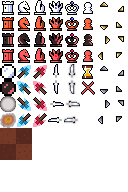
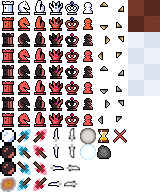
Added maptypes

diff --git a/src/main/TextureManager.java b/src/main/TextureManager.java
@@ -10,7 +10,9 @@ public class TextureManager {
 
     GamePanel gamePanel;
 
-    public BufferedImage tileImage;
+    public BufferedImage earthTileImage;
+    public BufferedImage snowTileImage;
+    public BufferedImage grassTileImage;
     public BufferedImage mapImage;
     public BufferedImage bottomBarImage;
     public BufferedImage unavailablePieceImage;
@@ -63,7 +65,8 @@ public class TextureManager {
 
 
     public BufferedImage cannonBallImage;
-    public BufferedImage cannonBallEnemyImage;
+    public BufferedImage cannonBallEarthEnemyImage;
+    public BufferedImage cannonBallSnowEnemyImage;
     public BufferedImage explosionImage;
     public BufferedImage queenParticleImageUp;
     public BufferedImage queenParticleImageDown;
@@ -75,7 +78,12 @@ public class TextureManager {
     public BufferedImage bishopParticleImageDownRight;
     public BufferedImage enemyBishopParticleImageDownLeft;
     public BufferedImage enemyBishopParticleImageUpLeft;
-    public BufferedImage knightParticleImage;
+    public BufferedImage knightEarthParticleImage;
+    public BufferedImage knightSnowParticleImage;
+
+    public BufferedImage rockImage;
+    public BufferedImage bushImage;
+    public BufferedImage iceImage;
 
     public BufferedImage stopwatchImage;
 
@@ -86,7 +94,7 @@ public class TextureManager {
     }
 
     final int TILE_SIZE = 16;
-    void loadImages() {
+    void loadImages(Map map) {
         try
         {
             // No atlas
@@ -152,31 +160,37 @@ public class TextureManager {
             greyArrowUpLeftImage = getTextureUpscaled(7, 7, UPSCALED_SIZE);
 
 
-            cannonBallImage = getTextureUpscaled(0, 4, 64);
-            cannonBallEnemyImage = getTextureUpscaled(0,5, 64);
+            cannonBallImage = getTextureUpscaled(0, 8, 64);
+            cannonBallEarthEnemyImage = getTextureUpscaled(0,9, 64);
+            cannonBallSnowEnemyImage = getTextureUpscaled(0,10, 64);
 
-            knightParticleImage = getTextureUpscaled(0,6, 128);
+            knightEarthParticleImage = getTextureUpscaled(5,8, 128);
+            knightSnowParticleImage = getTextureUpscaled(5,9, 128);
 
-            explosionImage = getTextureUpscaled(0,7, 64);
+            explosionImage = getTextureUpscaled(0,11, 64);
 
-            queenParticleImageUp = getTextureUpscaled(3,4, UPSCALED_SIZE);
-            queenParticleImageDown = getTextureUpscaled(3,5, UPSCALED_SIZE);
-            queenParticleImageRight = getTextureUpscaled(3, 6, UPSCALED_SIZE);
-            queenParticleImageLeft = getTextureUpscaled(3, 7, UPSCALED_SIZE);
+            queenParticleImageUp = getTextureUpscaled(3,8, UPSCALED_SIZE);
+            queenParticleImageDown = getTextureUpscaled(3,9, UPSCALED_SIZE);
+            queenParticleImageRight = getTextureUpscaled(3, 10, UPSCALED_SIZE);
+            queenParticleImageLeft = getTextureUpscaled(3, 11, UPSCALED_SIZE);
 
-            bishopParticleImageUpRight = getTextureUpscaled(1,4, 96);
-            bishopParticleImageUpLeft = getTextureUpscaled(1,5, 96);
-            bishopParticleImageDownRight = getTextureUpscaled(1,6, 96);
-            bishopParticleImageDownLeft = getTextureUpscaled(1,7, 96);
+            bishopParticleImageUpRight = getTextureUpscaled(1,8, 96);
+            bishopParticleImageUpLeft = getTextureUpscaled(1,9, 96);
+            bishopParticleImageDownRight = getTextureUpscaled(1,10, 96);
+            bishopParticleImageDownLeft = getTextureUpscaled(1,11, 96);
 
-            enemyBishopParticleImageUpLeft = getTextureUpscaled(2,5, 96);
-            enemyBishopParticleImageDownLeft = getTextureUpscaled(2,7, 96);
+            enemyBishopParticleImageUpLeft = getTextureUpscaled(2,9, 96);
+            enemyBishopParticleImageDownLeft = getTextureUpscaled(2,11, 96);
 
-            stopwatchImage = getTextureUpscaled(5, 4,48);
+            stopwatchImage = getTextureUpscaled(6, 8,48);
 
-            unavailablePieceImage = getTexture(5,5);
-            tileImage = imageAtlas.getSubimage(0 * TILE_SIZE, 8 * TILE_SIZE, TILE_SIZE * 2, TILE_SIZE * 2);
-            mapImage = generateBackgroundImage();
+            rockImage = getTextureUpscaled(6,9,TILE_SIZE);
+            iceImage = getTextureUpscaled(6,10,TILE_SIZE);
+
+            unavailablePieceImage = getTexture(7,8);
+            earthTileImage = imageAtlas.getSubimage(8 * TILE_SIZE, 0 * TILE_SIZE, TILE_SIZE * 2, TILE_SIZE * 2);
+            snowTileImage = imageAtlas.getSubimage(8 * TILE_SIZE, 2 * TILE_SIZE, TILE_SIZE * 2, TILE_SIZE * 2);
+            mapImage = generateBackgroundImage(map);
 
         } catch (IOException e) {
             e.printStackTrace();
@@ -205,7 +219,16 @@ public class TextureManager {
     }
 
 
-    private BufferedImage generateBackgroundImage() {
+    private BufferedImage generateBackgroundImage(Map mapType) {
+        BufferedImage tileImage;
+
+        switch (mapType){
+            case Map.SNOW -> tileImage = snowTileImage;
+            case Map.WOODS -> tileImage = grassTileImage;
+            default -> tileImage = earthTileImage;
+        }
+
+
         if (tileImage == null) {
             return null;
         }

diff --git a/src/main/EntityManager.java b/src/main/EntityManager.java
@@ -48,18 +48,33 @@ public class EntityManager {
     }
 
     public void spawnEnemyCannonBall(int x, int y, int damage){
-       if (textureManager.enemyRookImage != null) {
+        BufferedImage skin;
+        if (gamePanel.map == Map.SNOW) {
+           skin = textureManager.cannonBallSnowEnemyImage;
+        } else {
+            skin = textureManager.cannonBallEarthEnemyImage;
+        }
+
+
+       if (skin != null) {
            int size = CANNON_BALL_SIZE;
            int bx = x + (gamePanel.pieceWidth - size) / 2;
-           gamePanel.enemyBalls.add(new EnemyCannonBall(gamePanel, textureManager, bx, y, size, DEFAULT_ENEMY_CANNONBALL_SPEED, damage));
+           gamePanel.enemyBalls.add(new EnemyCannonBall(gamePanel, textureManager, bx, y, size, DEFAULT_ENEMY_CANNONBALL_SPEED, damage, skin));
            soundManager.playClip(soundManager.shootClip);
        }
     }
     public void spawnBossCannonBall(int x, int y){
-        if (textureManager.enemyRookImage != null) {
+        BufferedImage skin;
+        if (gamePanel.map == Map.SNOW){
+            skin = textureManager.cannonBallSnowEnemyImage;
+        } else {
+            skin = textureManager.cannonBallEarthEnemyImage;
+        }
+
+        if (skin != null) {
             int size = CANNON_BALL_SIZE * 2;
             int bx = x + (gamePanel.pieceWidth - size) / 2;
-            gamePanel.enemyBalls.add(new EnemyCannonBall(gamePanel, textureManager, bx, y, size, DEFAULT_CANNONBALL_SPEED, DEFAULT_CANNON_BALL_DMG * 2));
+            gamePanel.enemyBalls.add(new EnemyCannonBall(gamePanel, textureManager, bx, y, size, DEFAULT_CANNONBALL_SPEED, DEFAULT_CANNON_BALL_DMG * 2, skin));
             soundManager.playClip(soundManager.shootClip);
         }
     }
@@ -105,13 +120,21 @@ public class EntityManager {
     }
 
     public void spawnKnightParticles() {
-       if (textureManager.knightImage != null) {
+        BufferedImage skin;
+        if (gamePanel.map == Map.SNOW){
+           skin = textureManager.knightSnowParticleImage;
+        } else {
+            skin = textureManager.knightEarthParticleImage;
+        }
+
+
+       if (skin != null) {
            int size = 128; // size of the cannonball
            // spawn at top‐center of the rook
            int bx = player.x + (gamePanel.pieceWidth  - size) / 2;
            int by = player.y + (gamePanel.pieceHeight - size) / 2;
 
-           gamePanel.projectiles.add(new KnightSmash(gamePanel, textureManager, bx, by, size, DEFAULT_QUEEN_PARTICLE_SPEED, DEFAULT_TIME_TO_DECAY_KNIGHT, DEFAULT_SLAM_DMG, player.facingDirection));
+           gamePanel.projectiles.add(new KnightSmash(gamePanel, textureManager, bx, by, size, DEFAULT_QUEEN_PARTICLE_SPEED, DEFAULT_TIME_TO_DECAY_KNIGHT, DEFAULT_SLAM_DMG, player.facingDirection, skin));
            soundManager.playClip(soundManager.smashClip);
        }
     }

diff --git a/src/menu/MenuPanel.java b/src/menu/MenuPanel.java
@@ -171,7 +171,6 @@ public class MenuPanel extends JPanel {
                 System.out.println(SettingsManager.easyText);
                 startingGame = true;
                 repaint();
-                soundManager.stopMusic();
                 SwingUtilities.invokeLater(() -> {
                     soundManager.stopMusic();
                     Main.startMainGame(this, null, "easy");
@@ -179,7 +178,6 @@ public class MenuPanel extends JPanel {
             } else if (buttonIndexY % 4 == 1) {
                 System.out.println(SettingsManager.mediumText);
                 startingGame = true;
-                soundManager.stopMusic();
                 repaint();
                 SwingUtilities.invokeLater(() -> {
                     soundManager.stopMusic();
@@ -189,7 +187,6 @@ public class MenuPanel extends JPanel {
                 System.out.println(SettingsManager.hardText);
                 startingGame = true;
                 repaint();
-                soundManager.stopMusic();
                 SwingUtilities.invokeLater(() -> {
                     soundManager.stopMusic();
                     Main.startMainGame(this, null, "hard");

diff --git a/src/main/GamePanel.java b/src/main/GamePanel.java
@@ -2,7 +2,6 @@ package main;
 
 import java.awt.*;
 import java.awt.image.BufferedImage;
-import java.io.*;
 import java.util.ArrayList;
 import java.util.List;
 import javax.swing.*;
@@ -28,6 +27,7 @@ public class GamePanel extends JPanel implements Runnable{
   private boolean turretsRepaired = false;
   private boolean bishopsRevived = false;
   public int score = 0;
+  public Map map = Map.EARTH;
 
   boolean gameStart = true;
   public boolean swapSoon = false;
@@ -109,7 +109,7 @@ public class GamePanel extends JPanel implements Runnable{
     this.difficulty = difficulty;
     System.out.println("DIFFICULTY: " + difficulty);
     enemyManager = new EnemyManager(this, difficulty);
-    textureManager.loadImages();
+    textureManager.loadImages(map);
     //this.loadFonts();
     gameFont = FontManager.gameFont80;
     gameFontTiny = FontManager.gameFont25;
@@ -586,8 +586,6 @@ public class GamePanel extends JPanel implements Runnable{
     drawHealthBars(g2d);
     drawUI(g2d);
   }
-
-  private BufferedImage mapImage;
 
   private void drawBackground(Graphics2D g2d){
     g2d.drawImage(textureManager.mapImage,0,0,this);

diff --git a/src/entities/KnightSmash.java b/src/entities/KnightSmash.java
@@ -5,15 +5,17 @@ import main.GamePanel;
 import main.Main;
 import main.TextureManager;
 
+import java.awt.image.BufferedImage;
+
 public class KnightSmash extends Projectile {
     // Specialized constructor
-    public KnightSmash(GamePanel gamePanel, TextureManager textureManager, int x, int y, int size, int speed, int decay, int damage, Direction direction) {
+    public KnightSmash(GamePanel gamePanel, TextureManager textureManager, int x, int y, int size, int speed, int decay, int damage, Direction direction, BufferedImage skin) {
         super(gamePanel, textureManager, x, y, size, size);
         this.direction = direction;
         this.speed = speed;
         this.health = decay;
         this.damage = damage;
-        this.skin = textureManager.knightParticleImage;
+        this.skin = skin;
     }
 
     @Override

diff --git a/src/entities/EnemyCannonBall.java b/src/entities/EnemyCannonBall.java
@@ -3,14 +3,16 @@ package entities;
 import main.GamePanel;
 import main.TextureManager;
 
+import java.awt.image.BufferedImage;
+
 public class EnemyCannonBall extends Projectile {
 
-    public EnemyCannonBall(GamePanel gamePanel, TextureManager textureManager, int x, int y, int size, int speed, int damage) {
+    public EnemyCannonBall(GamePanel gamePanel, TextureManager textureManager, int x, int y, int size, int speed, int damage, BufferedImage skin) {
         super(gamePanel, textureManager, x, y, size, size);
         this.health = 200;
         this.speed = speed;
         this.damage = damage;
-        this.skin = textureManager.cannonBallEnemyImage;
+        this.skin = skin;
     }
 
     @Override

diff --git a/src/main/Map.java b/src/main/Map.java
@@ -1,0 +1,5 @@
+package main;
+
+public enum Map {
+    EARTH, SNOW, WOODS
+}
